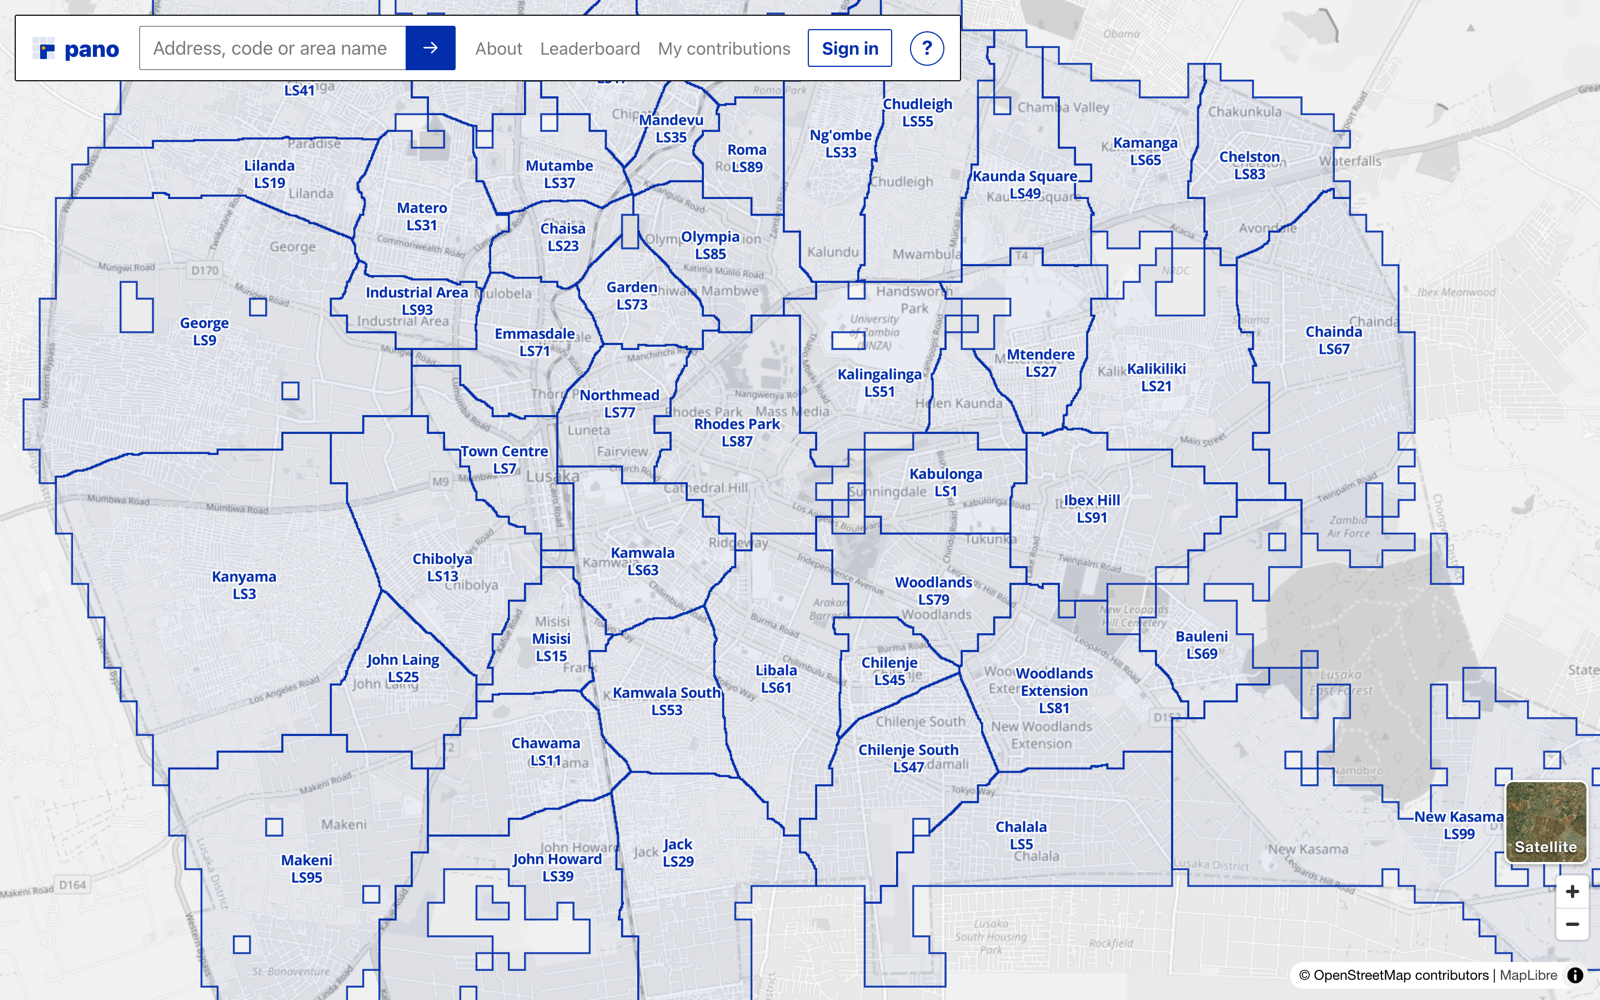
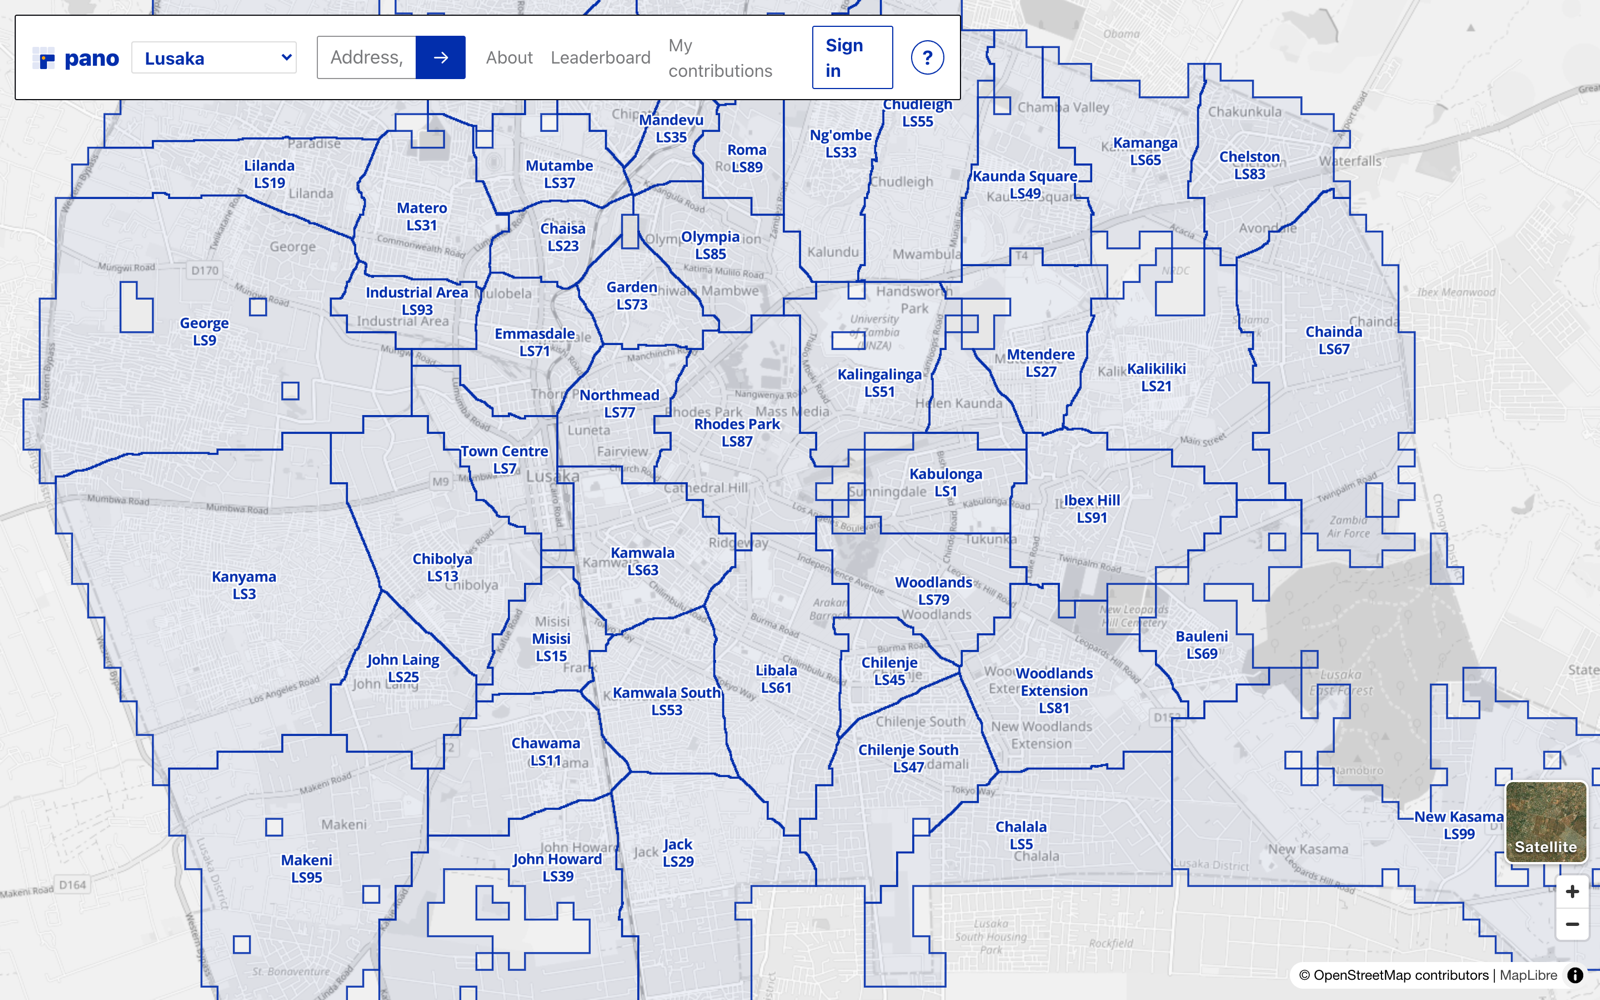
feat: choose the town; the gazetteer now holds Lusaka and Chililabombwe
A chooser in the bar lists the towns the pano API reports and flies
between them, remembering the last one; the geocoder is bounded to the
town in view (falling back to Lusaka when the API cannot say); survey
districts are grouped by town; the welcome, about and offline copy stop
assuming Lusaka. Imported gazetteer v0.2.0.

Claude-Session: https://claude.ai/code/session_015MA6EVJhnYjPz7w1iBwb9f

Changed region(s): [[0.0, 0.0, 0.5938, 0.124]]

diff --git a/app/javascript/controllers/map_controller.js b/app/javascript/controllers/map_controller.js
@@ -34,7 +34,7 @@ function inRing(ring, x, y) {
 // questions. A tap on a building or the ground calls /encode and fills the
 // card; the card's buttons are plain links into the contribution forms.
 export default class extends Controller {
-  static targets = ["canvas", "welcome", "query", "suggest", "offline"]
+  static targets = ["canvas", "welcome", "query", "suggest", "offline", "town"]
   static values = {
     api: String,
     satellite: String,
@@ -98,6 +98,40 @@ export default class extends Controller {
     if (offline) this.offlineTarget.textContent = (await savedMap(this.apiValue)) ? "Offline · the saved map" : "Offline · no map saved on this phone"
   }
 
+  // ---------- towns: a gazetteer can hold several; the bar flies between them ----------
+  async #offerTowns() {
+    const meta = await this.#get("/meta")
+    this.towns = (meta?.towns || []).filter(t => t.name)
+    if (!this.hasTownTarget || this.towns.length < 2) return
+    this.townTarget.replaceChildren(...this.towns.map(t => { const o = document.createElement("option"); o.value = t.area; o.textContent = t.name; return o }))
+    this.townTarget.hidden = false
+    let chosen = null
+    try { chosen = localStorage.getItem("pano.town") } catch {}
+    const t = this.towns.find(x => x.area === chosen)
+    if (t && !this.#townHere()) this.#fitTown(t, 0)
+    this.map.on("moveend", () => { const here = this.#townHere(); if (here && this.townTarget.value !== here.area) this.townTarget.value = here.area })
+    if (this.#townHere()) this.townTarget.value = this.#townHere().area
+  }
+
+  town() {
+    const t = this.towns?.find(x => x.area === this.townTarget.value)
+    if (!t) return
+    try { localStorage.setItem("pano.town", t.area) } catch {}
+    this.popup?.remove()
+    this.#fitTown(t, 900)
+  }
+
+  #fitTown(t, duration) {
+    const b = t.bbox
+    this.map.fitBounds([[b.min_lng, b.min_lat], [b.max_lng, b.max_lat]], { padding: 40, duration })
+  }
+
+  // The town whose units cover the middle of the map, if any.
+  #townHere() {
+    const c = this.map.getCenter()
+    return (this.towns || []).find(t => c.lng >= t.bbox.min_lng && c.lng <= t.bbox.max_lng && c.lat >= t.bbox.min_lat && c.lat <= t.bbox.max_lat)
+  }
+
   // District names come from the API; offline, from the tiles already drawn.
   #districtName(code) {
     if (this.names?.[code]) return this.names[code]
@@ -158,6 +192,7 @@ export default class extends Controller {
     const districts = await this.#get("/districts")
     this.apiReachable = !!districts
     this.#paintOffline()
+    this.#offerTowns()
     if (districts) {
       this.names = Object.fromEntries(districts.features.map(f => [f.properties.code, f.properties.name || ""]))
       if (!this.tiles) {
@@ -245,7 +280,7 @@ export default class extends Controller {
       // Codes and districts from the pano API; streets and places people already know from the geocoder.
       const [codes, places] = await Promise.all([
         this.#get(`/search?q=${encodeURIComponent(q)}`),
-        fetch(`/geocode?q=${encodeURIComponent(q)}`, { headers: { Accept: "application/json" } }).then(r => r.ok ? r.json() : []).catch(() => [])
+        fetch(`/geocode?q=${encodeURIComponent(q)}&town=${encodeURIComponent(this.#townHere()?.area || "")}`, { headers: { Accept: "application/json" } }).then(r => r.ok ? r.json() : []).catch(() => [])
       ])
       if (seq !== this.suggestSeq) return
       const list = [...(codes || []), ...places.map(p => ({ code: null, name: p.name, detail: p.detail, tier: p.kind, lat: p.lat, lng: p.lng }))].slice(0, 8)

diff --git a/app/assets/stylesheets/application.css b/app/assets/stylesheets/application.css
@@ -320,3 +320,6 @@ select.field { appearance: auto; }
 
 /* Offline: the bar says so */
 .offline-pill { position: absolute; left: 50%; bottom: -1.6rem; transform: translate(-50%, 100%); padding: .3rem 1rem; background: var(--ink); color: var(--paper); border-radius: 999px; font-size: 1.2rem; font-weight: 700; letter-spacing: .04em; white-space: nowrap; }
+
+/* Town chooser in the bar */
+.bar .town { font: inherit; font-size: 1.4rem; font-weight: 700; color: var(--accent); background: var(--paper); border: 1px solid var(--hairline); border-radius: var(--radius); padding: .3rem .6rem; margin-left: 1rem; max-width: 16rem; }

diff --git a/test/lib/geocoder_test.rb b/test/lib/geocoder_test.rb
@@ -9,12 +9,22 @@ class GeocoderTest < ActiveSupport::TestCase
     ]}
   JSON
 
-  setup do
-    @cache, @transport = Rails.cache, Geocoder.transport
-    Rails.cache = ActiveSupport::Cache::MemoryStore.new
+  Response = Struct.new(:code, :body, :headers) do
+    def [](name) = headers[name]
   end
 
-  teardown { Rails.cache, Geocoder.transport = @cache, @transport }
+  TOWNS = { towns: [
+    { area: "LS", name: "Lusaka", lat: -15.42, lng: 28.32, bbox: { min_lng: 28.15, min_lat: -15.55, max_lng: 28.45, max_lat: -15.30 } },
+    { area: "CL", name: "Chililabombwe", lat: -12.36, lng: 27.83, bbox: { min_lng: 27.62, min_lat: -12.45, max_lng: 27.99, max_lat: -12.24 } }
+  ] }.to_json
+
+  setup do
+    @cache, @transport, @api = Rails.cache, Geocoder.transport, PanoApi.transport
+    Rails.cache = ActiveSupport::Cache::MemoryStore.new
+    PanoApi.transport = ->(_uri, _etag) { Response.new("200", TOWNS, { "ETag" => '"t"' }) }
+  end
+
+  teardown { Rails.cache, Geocoder.transport, PanoApi.transport = @cache, @transport, @api }
 
   test "parses Photon, drops nameless features, and puts streets first" do
     results = Geocoder.parse(PHOTON)
@@ -27,15 +37,24 @@ class GeocoderTest < ActiveSupport::TestCase
     assert_equal "Twinpalm Road, Tukunka", results.last.detail
   end
 
-  test "search asks the provider once per query within the Lusaka box and caches" do
+  test "search asks the provider once per query within the town's box and caches" do
     calls = []
     Geocoder.transport = ->(uri) { calls << uri; PHOTON }
-    assert_equal 2, Geocoder.search("kabulonga").size
-    assert_equal 2, Geocoder.search("Kabulonga ").size
+    assert_equal 2, Geocoder.search("kabulonga", town: "LS").size
+    assert_equal 2, Geocoder.search("Kabulonga ", town: "ls").size
     assert_equal 1, calls.size, "the second lookup is a cache hit"
     params = URI.decode_www_form(calls.first.query).to_h
-    assert_equal "28.05,-15.75,28.55,-15.20", params["bbox"]
+    assert_equal "28.050,-15.650,28.550,-15.200", params["bbox"], "the town's unit box with a 0.1 degree margin"
     assert_equal "kabulonga", params["q"]
+  end
+
+  test "the box follows the town, and falls back to Lusaka when the API cannot say" do
+    towns = JSON.parse(TOWNS)["towns"]
+    assert_equal "27.520,-12.550,28.090,-12.140", Geocoder.bbox_from(towns, "CL")
+    assert_equal "28.050,-15.650,28.550,-15.200", Geocoder.bbox_from(towns, "ZZ"), "an unknown town gets the first one"
+    assert_equal Geocoder::BBOX, Geocoder.bbox_from([], "LS"), "no towns at all gets the constant"
+    PanoApi.transport = ->(_uri, _etag) { raise PanoApi::Error, "away" }
+    assert_equal Geocoder::BBOX, Geocoder.bbox_for("CL")
   end
 
   test "short queries are not sent anywhere" do

diff --git a/app/lib/geocoder.rb b/app/lib/geocoder.rb
@@ -2,8 +2,9 @@ require "net/http"
 
 # Streets, schools, markets and other places people already know, from
 # OpenStreetMap through Photon, so someone can type "Chila Road" and land
-# near their house before tapping its roof. Bounded to Lusaka, cached for
-# a day, proxied here so the provider sees one polite client.
+# near their house before tapping its roof. Bounded to the town the map is
+# looking at, cached for a day, proxied here so the provider sees one
+# polite client.
 class Geocoder
   class Error < StandardError; end
 
@@ -11,7 +12,9 @@ class Geocoder
 
   DEFAULT_URL = "https://photon.komoot.io/api/".freeze
   # Lusaka district with a margin: the same box scripts/fetch-data.sh uses.
+  # The fallback when the pano API cannot say where a town is.
   BBOX = "28.05,-15.75,28.55,-15.20".freeze
+  MARGIN = 0.1
   LIMIT = 6
 
   mattr_accessor :transport, default: ->(uri) { request(uri) }
@@ -20,14 +23,35 @@ class Geocoder
     ENV.fetch("PANO_GEOCODER_URL", DEFAULT_URL)
   end
 
-  def self.search(q)
+  def self.search(q, town: nil)
     q = q.to_s.strip
     return [] if q.length < 3
-    Rails.cache.fetch([ "geocode", q.downcase ], expires_in: 1.day) do
+    bbox = bbox_for(town)
+    Rails.cache.fetch([ "geocode", bbox, q.downcase ], expires_in: 1.day) do
       uri = URI(base_url)
-      uri.query = URI.encode_www_form(q: q, limit: LIMIT, bbox: BBOX, lang: "en")
+      uri.query = URI.encode_www_form(q: q, limit: LIMIT, bbox: bbox, lang: "en")
       parse(transport.call(uri))
     end
+  end
+
+  # The box of the town with this area prefix, with a margin, from the
+  # pano API's town list; Lusaka's when the town is unknown or the API is
+  # away. Pure given the towns.
+  def self.bbox_for(town)
+    towns = begin
+      status, body = PanoApi.meta
+      status == 200 ? body.fetch("towns", []) : []
+    rescue PanoApi::Error
+      []
+    end
+    bbox_from(towns, town)
+  end
+
+  def self.bbox_from(towns, town)
+    t = towns.find { |x| x["area"] == town.to_s.upcase } || towns.first
+    return BBOX unless t && t["bbox"]
+    b = t["bbox"]
+    [ b["min_lng"] - MARGIN, b["min_lat"] - MARGIN, b["max_lng"] + MARGIN, b["max_lat"] + MARGIN ].map { |v| format("%.3f", v) }.join(",")
   end
 
   # Pure: Photon's GeoJSON in, results out. Streets come first, since a

diff --git a/app/controllers/surveys_controller.rb b/app/controllers/surveys_controller.rb
@@ -10,7 +10,7 @@ class SurveysController < ApplicationController
 
   def new
     @survey = Survey.new(goal: 10)
-    @districts = current_gazetteer.places.tier_district.order(:code)
+    @districts = district_choices
   end
 
   def create
@@ -19,7 +19,7 @@ class SurveysController < ApplicationController
     if @survey.save
       redirect_to survey_path(@survey), notice: t(".opened", name: @survey.display_name)
     else
-      @districts = current_gazetteer.places.tier_district.order(:code)
+      @districts = district_choices
       render :new, status: :unprocessable_content
     end
   end
@@ -46,6 +46,22 @@ class SurveysController < ApplicationController
   private
     def survey_params
       params.expect(survey: [ :target_code, :goal, :notes ])
+    end
+
+    # Districts grouped by town, the town named by the pano API when it can
+    # be and by its area prefix otherwise.
+    def district_choices
+      names = town_names
+      current_gazetteer.places.tier_district.order(:code).group_by { |d| d.code[/\A[A-Z]+/] }
+        .map { |area, districts| [ names.fetch(area, area), districts.map { |d| [ "#{d.display_name} · #{d.code}", d.code ] } ] }
+    end
+
+    def town_names
+      status, body = PanoApi.meta
+      return {} unless status == 200
+      body.fetch("towns", []).to_h { |t| [ t["area"], t["name"].presence || t["area"] ] }
+    rescue PanoApi::Error
+      {}
     end
 
     def require_gazetteer

diff --git a/test/system/welcome_test.rb b/test/system/welcome_test.rb
@@ -3,7 +3,7 @@ require "application_system_test_case"
 class WelcomeTest < ApplicationSystemTestCase
   test "a first visit is welcomed once, and the bar brings it back" do
     visit root_path
-    assert_selector "dialog.welcome[open]", text: "Help check Lusaka's new addresses"
+    assert_selector "dialog.welcome[open]", text: "Help check the new addresses"
     tap "Got it, show me the map"
     assert_no_selector "dialog.welcome[open]"
 
@@ -11,7 +11,7 @@ class WelcomeTest < ApplicationSystemTestCase
     assert_no_selector "dialog.welcome[open]", wait: 2
 
     execute_script("arguments[0].click()", find("button.help"))
-    assert_selector "dialog.welcome[open]", text: "Help check Lusaka's new addresses"
+    assert_selector "dialog.welcome[open]", text: "Help check the new addresses"
     click_link "How it works"
     assert_selector "h1", text: "What pano is"
 

diff --git a/test/controllers/map_controller_test.rb b/test/controllers/map_controller_test.rb
@@ -6,7 +6,7 @@ class MapControllerTest < ActionDispatch::IntegrationTest
     assert_response :success
     assert_select "[data-controller=map][data-map-api-value]"
     assert_select "dialog.welcome:not([open])", 1, "the welcome dialog is in the page for the controller to open on a first visit"
-    assert_select "dialog.welcome", /Help check Lusaka's new addresses/
+    assert_select "dialog.welcome", /Help check the new addresses/
     assert_select "dialog.welcome a[href='/about']", "How it works"
     assert_select "dialog.modal turbo-frame#modal", 1, "the frame contribution forms load into"
     assert_select ".bar form.search input[name=q][data-map-target=query]", 1

diff --git a/app/controllers/geocode_controller.rb b/app/controllers/geocode_controller.rb
@@ -3,7 +3,7 @@ class GeocodeController < ApplicationController
   allow_unauthenticated_access
 
   def index
-    results = Geocoder.search(params[:q])
+    results = Geocoder.search(params[:q], town: params[:town])
     render json: results.map(&:to_h)
   rescue Geocoder::Error => e
     Rails.logger.warn("geocode: #{e.message}")

diff --git a/config/environments/development.rb b/config/environments/development.rb
@@ -6,6 +6,8 @@ Rails.application.configure do
   # Make code changes take effect immediately without server restart.
   config.enable_reloading = true
 
+  config.hosts << "unengaged-talisman-thumping.ngrok-free.dev"
+
   # Do not eager load code on boot.
   config.eager_load = false
 

diff --git a/README.md b/README.md
@@ -51,8 +51,12 @@ changes what anyone may do.
 ![Your pins on the map, your list in the panel](docs/screenshots/mine.png)
 
 Search takes a pano code, a district name, or the address you already
-have. "Chila Road, Kabulonga" goes to a Photon geocoder bounded to
-Lusaka and lands you on the street; then you tap your house. The old
+have. "Chila Road, Kabulonga" goes to a Photon geocoder bounded to the
+town the map is looking at and lands you on the street; then you tap
+your house. A gazetteer can hold several towns (Lusaka and
+Chililabombwe today); the chooser in the bar flies between them, the
+map remembers the last one, and the field surveys list districts by
+town. The old
 address is how you find the building, the pano code is what you leave
 with. A Satellite toggle sits in the corner for the compounds where the
 base map is a grey blur.
@@ -214,7 +218,7 @@ scripts/                       diagrams.sh, screenshots.sh
 
 ```
 bin/setup
-bin/rails "pano:import[../pano/gazetteer/v0.1.0]"    # a published gazetteer directory
+bin/rails "pano:import[../pano/gazetteer/v0.2.0]"    # a published gazetteer directory
 PANO_API_URL=http://127.0.0.1:8080 bin/dev            # the pano API must be running
 ```
 
